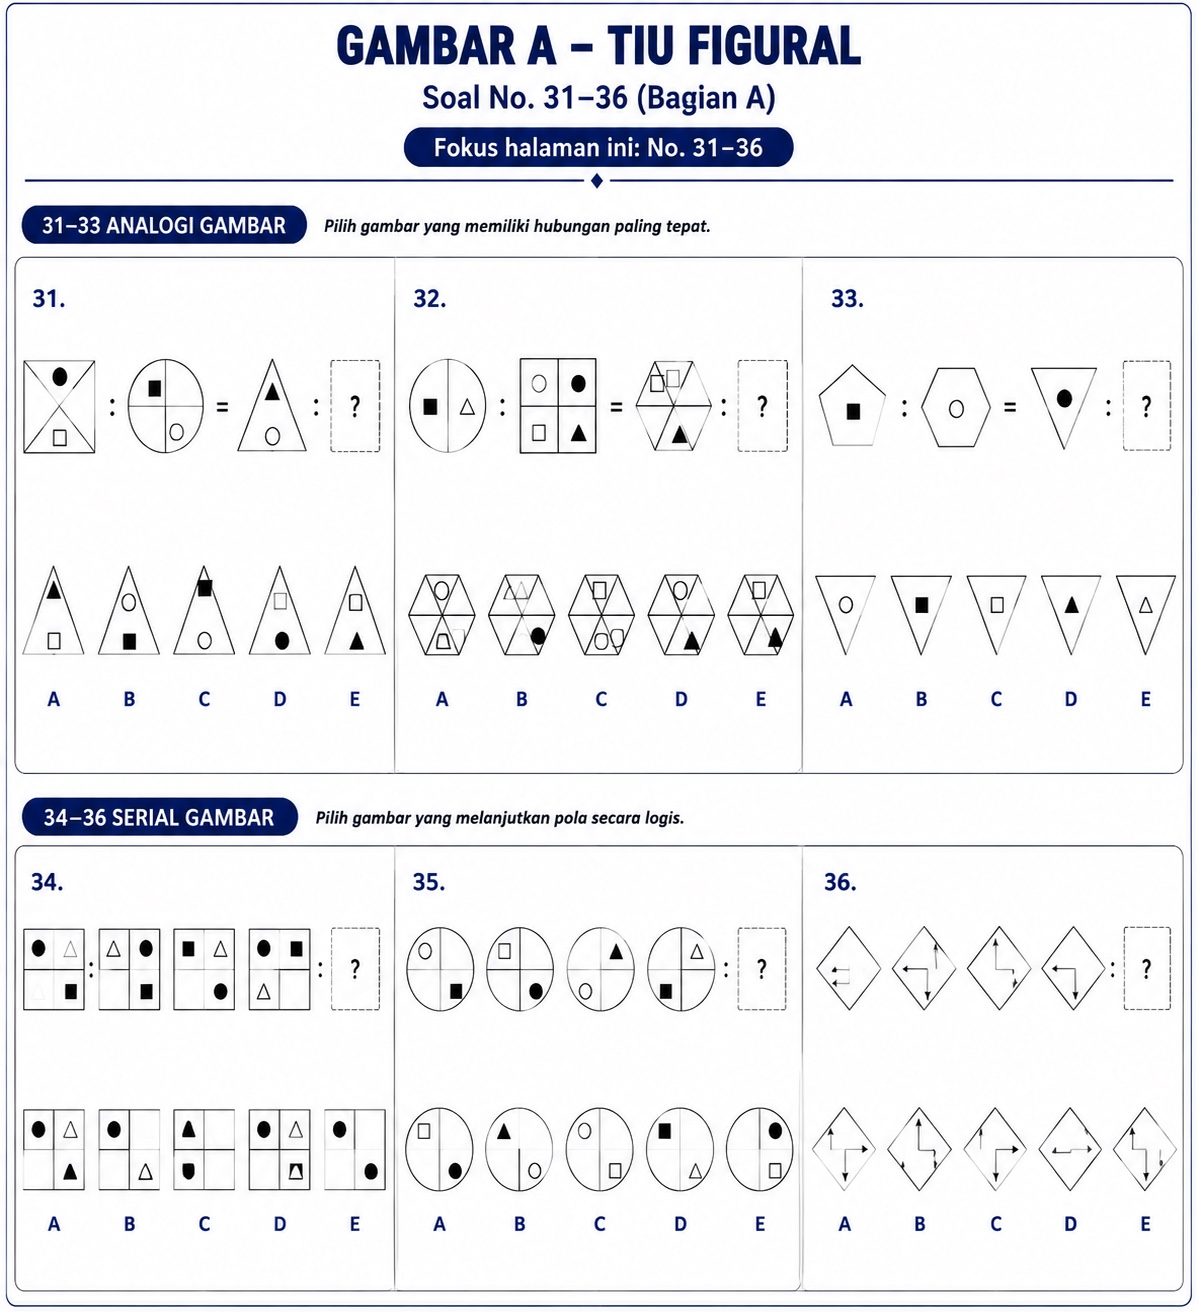
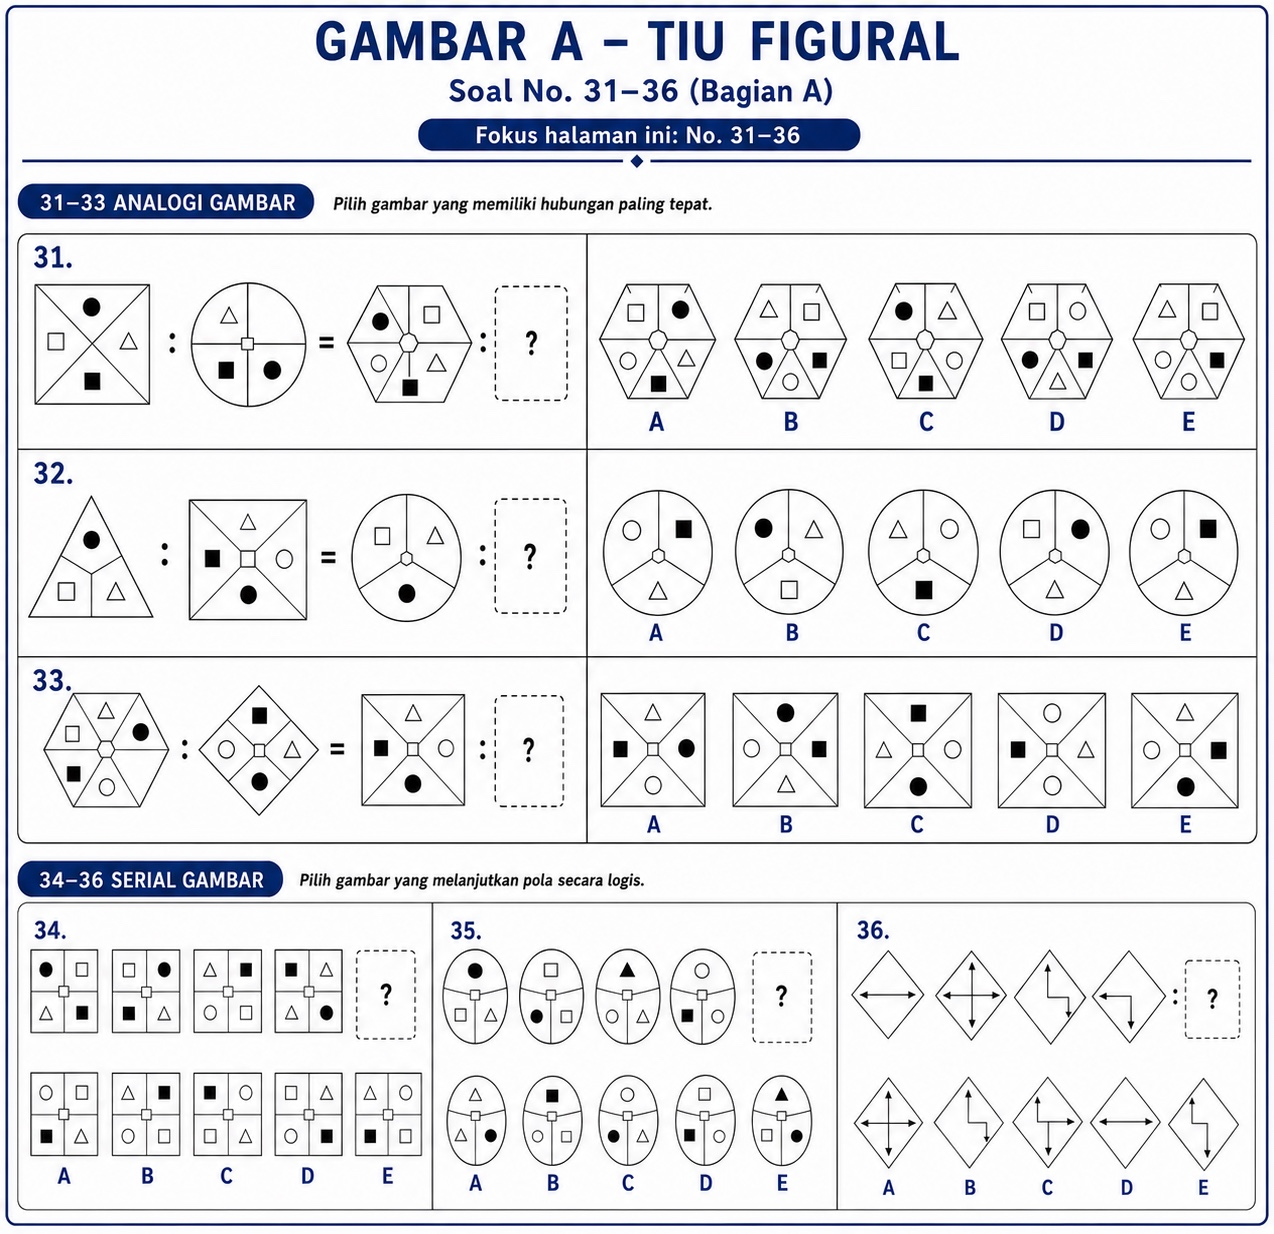
Add files via upload

Changed region(s): [[0.0, 0.0, 1.0, 1.0], [0.8023, 0.7699, 0.8332, 0.8006]]

diff --git a/script.js b/script.js
@@ -1,6 +1,6 @@
 (()=>{'use strict';
 const Q=window.AOUT_QUESTIONS;if(!Array.isArray(Q)||Q.length!==110)throw new Error('Database soal tidak lengkap.');
[2 lines of base64/hex data omitted]
 const $=id=>document.getElementById(id),views={access:$('accessView'),instruction:$('instructionView'),exam:$('examView'),result:$('resultView')};
 let state=loadState(),filter='all',tick=null,toastTimer=null;
 function blankState(){return{answers:{},marked:{},current:1,started:false,finished:false,endAt:null,startedAt:null,finishedAt:null,scores:null,downloadUnlocked:false,participant:{name:'',age:'',origin:'',occupation:''}}}
@@ -75,7 +75,91 @@ function loadImage(src){return new Promise((res,rej)=>{const im=new Image();im.o
 function wrap(ctx,text,maxWidth){const words=String(text).split(/\s+/),lines=[];let line='';for(const w of words){const test=line?line+' '+w:w;if(ctx.measureText(test).width>maxWidth&&line){lines.push(line);line=w}else line=test}if(line)lines.push(line);return lines}
 function safeFilename(name){return String(name||'Peserta').normalize('NFD').replace(/[\u0300-\u036f]/g,'').replace(/[^a-zA-Z0-9_-]+/g,'_').replace(/^_+|_+$/g,'').slice(0,50)||'Peserta'}
 async function canvasesToPdf(canvases,filename){const jpgs=[];for(const c of canvases){const blob=await new Promise(r=>c.toBlob(r,'image/jpeg',.88));jpgs.push(new Uint8Array(await blob.arrayBuffer()))}const pdf=jpegPagesToPdf(jpgs,canvases[0].width,canvases[0].height),blob=new Blob([pdf],{type:'application/pdf'}),a=document.createElement('a');a.href=URL.createObjectURL(blob);a.download=filename;a.click();setTimeout(()=>URL.revokeObjectURL(a.href),3000)}
-async function buildAnswerPdf(){const btn=$('downloadAnswerButton'),old=btn.textContent;btn.disabled=true;btn.textContent='Menyiapkan PDF…';try{const owie=await loadImage('assets/owie.png'),imgA=await loadImage('assets/gambar-a.jpeg'),imgB=await loadImage('assets/gambar-b.jpeg'),W=794,H=1123,M=54;let canvases=[],canvas,ctx,y;function newPage(title='JAWABAN SIMULASI SKD CPNS 2026'){canvas=document.createElement('canvas');canvas.width=W;canvas.height=H;ctx=canvas.getContext('2d');ctx.fillStyle='#f4f8fb';ctx.fillRect(0,0,W,H);ctx.fillStyle='#0c2f5c';ctx.fillRect(0,0,W,88);ctx.fillStyle='#fff';ctx.font='700 20px Arial';ctx.fillText('AOUT EDU',M,36);ctx.font='700 16px Arial';ctx.fillText(title,M,63);ctx.drawImage(owie,W-108,10,62,62);y=118;canvases.push(canvas)}function ensure(h){if(y+h>H-54)newPage()}function text(t,x,w,font='14px Arial',color='#17233a',lh=20){ctx.font=font;ctx.fillStyle=color;const ls=wrap(ctx,t,w);ls.forEach(line=>{ctx.fillText(line,x,y);y+=lh})}function qText(q){ctx.font='14px Arial';const promptLines=wrap(ctx,q.prompt,W-M*2-28).length;ctx.font='13px Arial';const optionLines=q.options.reduce((n,o,i)=>n+wrap(ctx,`${LETTERS[i]}. ${o}`,W-M*2-18).length,0);ensure(Math.min(promptLines*20+optionLines*18+86,H-180));ctx.fillStyle='#0c2f5c';ctx.font='700 15px Arial';ctx.fillText(`${q.id}.`,M,y);const sy=y;text(q.prompt,M+28,W-M*2-28);y=Math.max(y,sy+20)+4;q.options.forEach((o,i)=>{ctx.fillStyle='#17233a';ctx.font='13px Arial';for(const line of wrap(ctx,`${LETTERS[i]}. ${o}`,W-M*2-18)){if(y>H-90)newPage();ctx.fillText(line,M+18,y);y+=18}});ctx.fillStyle='#1fa8a5';ctx.font='700 13px Arial';if(y>H-90)newPage();ctx.fillText(`Jawaban peserta: ${state.answers[q.id]||'Belum dijawab'}`,M+18,y+5);y+=34;ctx.strokeStyle='#d9e4ec';ctx.beginPath();ctx.moveTo(M,y);ctx.lineTo(W-M,y);ctx.stroke();y+=18}newPage('RINGKASAN SALINAN JAWABAN');ctx.fillStyle='#0c2f5c';ctx.font='700 32px Arial';ctx.fillText('Salinan Jawaban Saya',M,y+20);y+=56;ctx.font='14px Arial';ctx.fillStyle='#17233a';ctx.fillText(`Nama: ${state.participant?.name||'-'}`,M,y);y+=24;ctx.fillText(`Tanggal: ${new Date(state.finishedAt||Date.now()).toLocaleString('id-ID')}`,M,y);y+=36;ctx.fillStyle='#68748a';ctx.fillText('Dokumen memuat soal lengkap dan jawaban yang dipilih peserta.',M,y);y+=38;for(const q of Q.filter(x=>x.id<=30))qText(q);newPage('GAMBAR A — SOAL 31–36');let ar=imgA.width/imgA.height,aw=W-M*2,ah=aw/ar;if(ah>780){ah=780;aw=ah*ar}ctx.drawImage(imgA,(W-aw)/2,y,aw,ah);y+=ah+24;ctx.font='700 15px Arial';ctx.fillStyle='#0c2f5c';for(let id=31;id<=36;id++){ctx.fillText(`${id}. Jawaban peserta: ${state.answers[id]||'Belum dijawab'}`,M,y);y+=25}newPage('GAMBAR B — SOAL 37–40');let br=imgB.width/imgB.height,bw=W-M*2,bh=bw/br;if(bh>790){bh=790;bw=bh*br}ctx.drawImage(imgB,(W-bw)/2,y,bw,bh);y+=bh+24;ctx.font='700 15px Arial';ctx.fillStyle='#0c2f5c';for(let id=37;id<=40;id++){ctx.fillText(`${id}. Jawaban peserta: ${state.answers[id]||'Belum dijawab'}`,M,y);y+=25}for(const q of Q.filter(x=>x.id>=41))qText(q);await canvasesToPdf(canvases,`Salinan_Jawaban_${safeFilename(state.participant?.name)}.pdf`);toast('PDF salinan jawaban berhasil dibuat.')}catch(e){console.error(e);toast('PDF gagal dibuat. Gunakan browser terbaru.')}finally{btn.disabled=false;btn.textContent=old}}
+
+function openContribution(){
+ const modal=$('contributionModal');
+ $('contributionSuccess').classList.add('hidden');
+ $('contributionError').textContent='';
+ $('contributionIntroActions').classList.remove('hidden');
+ $('contributionForm').classList.add('hidden');
+ $('contributionForm').reset();
+ $('contributorName').value=state.participant?.name||'';
+ $('transferDate').value=new Date().toISOString().slice(0,10);
+ modal.classList.remove('hidden');
+ document.body.style.overflow='hidden';
+}
+function closeContribution(){
+ $('contributionModal').classList.add('hidden');
+ document.body.style.overflow='';
+}
+async function copyBankAccount(){
+ const number='568801018509539';
+ try{
+  if(navigator.clipboard&&window.isSecureContext)await navigator.clipboard.writeText(number);
+  else{const ta=document.createElement('textarea');ta.value=number;ta.style.position='fixed';ta.style.opacity='0';document.body.appendChild(ta);ta.select();document.execCommand('copy');ta.remove()}
+  toast('Nomor rekening berhasil disalin.');
+ }catch(e){console.error(e);toast(`Salin manual: ${number}`)}
+}
+function showContributionForm(){
+ $('contributionIntroActions').classList.add('hidden');
+ $('contributionForm').classList.remove('hidden');
+ $('contributorName').focus();
+}
+function validProof(file){
+ if(!file)return false;
+ const ext=(file.name.split('.').pop()||'').toLowerCase();
+ return ['jpg','jpeg','png','pdf'].includes(ext);
+}
+function sendContribution(e){
+ e.preventDefault();
+ const name=$('contributorName').value.trim(),amount=$('contributionAmount').value.trim(),bank=$('senderBank').value.trim(),date=$('transferDate').value,wa=$('senderWhatsapp').value.trim(),note=$('contributionNote').value.trim(),file=$('transferProof').files[0];
+ if(!name||!amount||Number(amount)<=0||!bank||!date||!wa||!validProof(file)){
+  $('contributionError').textContent='Lengkapi data transfer dan pilih bukti berformat JPG, JPEG, PNG, atau PDF.';
+  return;
+ }
+ $('contributionError').textContent='';
+ const nominal=new Intl.NumberFormat('id-ID').format(Number(amount));
+ const msg=`Halo Kak Affi, saya sudah memberikan kontribusi seikhlasnya.\n\nNama: ${name}\nNominal Kontribusi: Rp${nominal}\nBank Pengirim: ${bank}\nTanggal Transfer: ${date}\nNomor WhatsApp: ${wa}\nRekening Tujuan: BRI [phone redacted]\nAtas Nama: Rafly Agustin\n\nCatatan:\n${note||'-'}\n\nBukti transfer: ${file.name} (akan saya lampirkan pada chat WhatsApp)\n\nMohon dilakukan pengecekan. Terima kasih.`;
+ $('contributionSuccess').classList.remove('hidden');
+ window.open(`https://wa.me/6285173479651?text=${encodeURIComponent(msg)}`,'_blank','noopener');
+}
+async function buildAnswerPdf(){
+ const btn=$('downloadAnswerButton'),old=btn.textContent;btn.disabled=true;btn.textContent='Menyiapkan PDF…';
+ try{
+  const owie=await loadImage('assets/owie.png'),imgA=await loadImage('assets/gambar-a.jpeg'),imgB=await loadImage('assets/gambar-b.jpeg'),W=794,H=1123,M=54;
+  let canvases=[],canvas,ctx,y;
+  function newPage(title='SALINAN SOAL, JAWABAN & KUNCI'){
+   canvas=document.createElement('canvas');canvas.width=W;canvas.height=H;ctx=canvas.getContext('2d');
+   ctx.fillStyle='#f4f8fb';ctx.fillRect(0,0,W,H);ctx.fillStyle='#0c2f5c';ctx.fillRect(0,0,W,88);
+   ctx.fillStyle='#fff';ctx.font='700 20px Arial';ctx.fillText('AOUT EDU',M,36);ctx.font='700 16px Arial';ctx.fillText(title,M,63);ctx.drawImage(owie,W-108,10,62,62);y=118;canvases.push(canvas)
+  }
+  function ensure(h){if(y+h>H-54)newPage()}
+  function text(t,x,w,font='14px Arial',color='#17233a',lh=20){ctx.font=font;ctx.fillStyle=color;const ls=wrap(ctx,t,w);ls.forEach(line=>{ctx.fillText(line,x,y);y+=lh})}
+  function resultMeta(q){
+   const chosen=state.answers[q.id]||'Belum dijawab';
+   if(q.id<=65){const status=chosen==='Belum dijawab'?'Tidak dijawab':chosen===q.answer?'Benar':'Salah';return{line:`Jawaban peserta: ${chosen}  |  Kunci: ${q.answer}  |  Status: ${status}`,color:status==='Benar'?'#168960':status==='Salah'?'#c84f4f':'#7e8898'}}
+   const score=chosen==='Belum dijawab'?0:(q.scores?.[chosen]||0),best=LETTERS.find(L=>q.scores?.[L]===5)||'-';
+   return{line:`Jawaban peserta: ${chosen}  |  Skor: ${score}  |  Opsi skor 5: ${best}`,color:'#a86b12'}
+  }
+  function qText(q){
+   ctx.font='14px Arial';const promptLines=wrap(ctx,q.prompt,W-M*2-28).length;ctx.font='13px Arial';const optionLines=q.options.reduce((n,o,i)=>n+wrap(ctx,`${LETTERS[i]}. ${o}`,W-M*2-18).length,0);
+   ensure(Math.min(promptLines*20+optionLines*18+108,H-180));ctx.fillStyle='#0c2f5c';ctx.font='700 15px Arial';ctx.fillText(`${q.id}.`,M,y);const sy=y;text(q.prompt,M+28,W-M*2-28);y=Math.max(y,sy+20)+4;
+   q.options.forEach((o,i)=>{ctx.fillStyle='#17233a';ctx.font='13px Arial';for(const line of wrap(ctx,`${LETTERS[i]}. ${o}`,W-M*2-18)){if(y>H-104)newPage();ctx.fillText(line,M+18,y);y+=18}});
+   const meta=resultMeta(q);if(y>H-88)newPage();ctx.fillStyle=meta.color;ctx.font='700 13px Arial';for(const line of wrap(ctx,meta.line,W-M*2-18)){ctx.fillText(line,M+18,y+5);y+=18}y+=18;
+   ctx.strokeStyle='#d9e4ec';ctx.beginPath();ctx.moveTo(M,y);ctx.lineTo(W-M,y);ctx.stroke();y+=18
+  }
+  function figuralPage(title,img,ids){
+   newPage(title);const ratio=img.width/img.height;let iw=W-M*2,ih=iw/ratio;const maxH=ids.length>4?650:720;if(ih>maxH){ih=maxH;iw=ih*ratio}ctx.drawImage(img,(W-iw)/2,y,iw,ih);y+=ih+22;
+   ctx.font='700 13px Arial';for(const id of ids){const q=qById(id),meta=resultMeta(q);if(y>H-78)newPage(`${title} — LANJUTAN`);ctx.fillStyle=meta.color;for(const line of wrap(ctx,`${id}. ${meta.line}`,W-M*2)){ctx.fillText(line,M,y);y+=18}y+=9}
+  }
+  newPage('RINGKASAN SALINAN SOAL, JAWABAN & KUNCI');ctx.fillStyle='#0c2f5c';ctx.font='700 31px Arial';ctx.fillText('Salinan Hasil Pengerjaan',M,y+20);y+=56;ctx.font='14px Arial';ctx.fillStyle='#17233a';ctx.fillText(`Nama: ${state.participant?.name||'-'}`,M,y);y+=24;ctx.fillText(`Tanggal: ${new Date(state.finishedAt||Date.now()).toLocaleString('id-ID')}`,M,y);y+=34;ctx.fillStyle='#68748a';text('Dokumen memuat soal lengkap, jawaban peserta, kunci TWK/TIU, status benar-salah, serta skor dan opsi terbaik TKP.',M,W-M*2,'13px Arial','#68748a',19);y+=18;
+  for(const q of Q.filter(x=>x.id<=30))qText(q);
+  figuralPage('GAMBAR A — SOAL 31–36',imgA,[31,32,33,34,35,36]);
+  figuralPage('GAMBAR B — SOAL 37–40',imgB,[37,38,39,40]);
+  for(const q of Q.filter(x=>x.id>=41))qText(q);
+  await canvasesToPdf(canvases,`Salinan_Soal_Jawaban_Kunci_${safeFilename(state.participant?.name)}.pdf`);toast('PDF salinan soal, jawaban, dan kunci berhasil dibuat.');
+ }catch(e){console.error(e);toast('PDF gagal dibuat. Gunakan browser terbaru.')}finally{btn.disabled=false;btn.textContent=old}
+}
 async function buildReportPdf(){
  const btn=$('downloadReportButton'),old=btn.textContent;btn.disabled=true;btn.textContent='Menyiapkan report detail...';
  try{
@@ -126,8 +210,8 @@ async function buildReportPdf(){
 }
 function jpegPagesToPdf(images,pw,ph){const parts=[],offsets=[0];let pos=0;const add=v=>{const b=typeof v==='string'?new TextEncoder().encode(v):v;parts.push(b);pos+=b.length};add('%PDF-1.4\n%âãÏÓ\n');const n=images.length,objCount=2+n*3;const obj=(id,body)=>{offsets[id]=pos;add(`${id} 0 obj\n`);Array.isArray(body)?body.forEach(add):add(body);add('\nendobj\n')};obj(1,'<< /Type /Catalog /Pages 2 0 R >>');obj(2,`<< /Type /Pages /Kids [${images.map((_,i)=>`${3+i*3} 0 R`).join(' ')}] /Count ${n} >>`);images.forEach((img,i)=>{const pageId=3+i*3,imgId=pageId+1,contentId=pageId+2,name=`Im${i+1}`;obj(pageId,`<< /Type /Page /Parent 2 0 R /MediaBox [0 0 595.28 841.89] /Resources << /XObject << /${name} ${imgId} 0 R >> >> /Contents ${contentId} 0 R >>`);obj(imgId,[`<< /Type /XObject /Subtype /Image /Width ${pw} /Height ${ph} /ColorSpace /DeviceRGB /BitsPerComponent 8 /Filter /DCTDecode /Length ${img.length} >>\nstream\n`,img,'\nendstream']);const stream=`q\n595.28 0 0 841.89 0 0 cm\n/${name} Do\nQ`;obj(contentId,`<< /Length ${stream.length} >>\nstream\n${stream}\nendstream`)});const xref=pos;add(`xref\n0 ${objCount+1}\n0000000000 65535 f \n`);for(let i=1;i<=objCount;i++)add(`${String(offsets[i]||0).padStart(10,'0')} 00000 n \n`);add(`trailer\n<< /Size ${objCount+1} /Root 1 0 R >>\nstartxref\n${xref}\n%%EOF`);const len=parts.reduce((a,b)=>a+b.length,0),out=new Uint8Array(len);let o=0;for(const p of parts){out.set(p,o);o+=p.length}return out}
 function reset(){if(!confirm('Seluruh jawaban, data diri, skor, akses unduhan, dan laporan tersimpan pada perangkat ini akan dihapus. Apakah Anda yakin ingin mengulangi tes?'))return;localStorage.removeItem(STORE);sessionStorage.removeItem('aoutAccess');state=blankState();location.reload()}
-$('accessButton').onclick=authenticate;$('accessCode').addEventListener('keydown',e=>{if(e.key==='Enter')authenticate()});$('toggleCode').onclick=()=>{$('accessCode').type=$('accessCode').type==='password'?'text':'password'};['participantName','participantAge','participantOrigin','participantOccupation'].forEach(id=>$(id).addEventListener('input',()=>validateReady(false)));$('consent').onchange=()=>validateReady(false);$('startButton').onclick=startExam;$('resumeButton').onclick=resumeExam;$('prevButton').onclick=prev;$('nextButton').onclick=next;$('markButton').onclick=toggleMark;$('finishButton').onclick=openFinish;$('confirmFinish').onclick=()=>finishExam(false);document.querySelectorAll('[data-close-modal]').forEach(b=>b.onclick=closeFinish);$('drawerButton').onclick=openDrawer;$('drawerClose').onclick=closeDrawer;$('drawerBackdrop').onclick=closeDrawer;$('stripLeft').onclick=()=>$('numberStrip').scrollBy({left:-320,behavior:'smooth'});$('stripRight').onclick=()=>$('numberStrip').scrollBy({left:320,behavior:'smooth'});$('imageModalClose').onclick=()=>$('imageModal').classList.add('hidden');$('imageModal').addEventListener('click',e=>{if(e.target===$('imageModal'))$('imageModal').classList.add('hidden')});$('requestCodeButton').onclick=requestDownloadCode;$('discussionButton').onclick=requestDiscussion;$('unlockDownloadsButton').onclick=unlockDownloads;$('downloadCode').addEventListener('keydown',e=>{if(e.key==='Enter')unlockDownloads()});$('downloadAnswerButton').onclick=buildAnswerPdf;$('downloadReportButton').onclick=buildReportPdf;$('resetButton').onclick=reset;
+$('accessButton').onclick=authenticate;$('accessCode').addEventListener('keydown',e=>{if(e.key==='Enter')authenticate()});$('toggleCode').onclick=()=>{$('accessCode').type=$('accessCode').type==='password'?'text':'password'};['participantName','participantAge','participantOrigin','participantOccupation'].forEach(id=>$(id).addEventListener('input',()=>validateReady(false)));$('consent').onchange=()=>validateReady(false);$('startButton').onclick=startExam;$('resumeButton').onclick=resumeExam;$('prevButton').onclick=prev;$('nextButton').onclick=next;$('markButton').onclick=toggleMark;$('finishButton').onclick=openFinish;$('confirmFinish').onclick=()=>finishExam(false);document.querySelectorAll('[data-close-modal]').forEach(b=>b.onclick=closeFinish);$('drawerButton').onclick=openDrawer;$('drawerClose').onclick=closeDrawer;$('drawerBackdrop').onclick=closeDrawer;$('stripLeft').onclick=()=>$('numberStrip').scrollBy({left:-320,behavior:'smooth'});$('stripRight').onclick=()=>$('numberStrip').scrollBy({left:320,behavior:'smooth'});$('imageModalClose').onclick=()=>$('imageModal').classList.add('hidden');$('imageModal').addEventListener('click',e=>{if(e.target===$('imageModal'))$('imageModal').classList.add('hidden')});$('requestCodeButton').onclick=requestDownloadCode;$('discussionButton').onclick=requestDiscussion;$('unlockDownloadsButton').onclick=unlockDownloads;$('downloadCode').addEventListener('keydown',e=>{if(e.key==='Enter')unlockDownloads()});$('downloadAnswerButton').onclick=buildAnswerPdf;$('downloadReportButton').onclick=buildReportPdf;$('openContributionButton').onclick=openContribution;$('contributionModalClose').onclick=closeContribution;$('copyBankButton').onclick=copyBankAccount;$('showTransferFormButton').onclick=showContributionForm;$('contributionForm').addEventListener('submit',sendContribution);$('contributionModal').addEventListener('click',e=>{if(e.target===$('contributionModal'))closeContribution()});$('resetButton').onclick=reset;
 document.addEventListener('click',e=>{const go=e.target.closest('[data-go]');if(go)setCurrent(go.dataset.go);const ans=e.target.closest('[data-answer]');if(ans){const[id,L]=ans.dataset.answer.split(':');answer(Number(id),L)}const z=e.target.closest('[data-zoom]');if(z)openZoom(z.dataset.zoom);const ft=e.target.closest('[data-filter]');if(ft){filter=ft.dataset.filter;document.querySelectorAll('[data-filter]').forEach(b=>b.classList.toggle('active',b===ft));renderGrid()}});
-window.addEventListener('beforeunload',e=>{if(state.started&&!state.finished){e.preventDefault();e.returnValue=''}});
+document.addEventListener('keydown',e=>{if(e.key==='Escape'&&!$('contributionModal').classList.contains('hidden'))closeContribution()});window.addEventListener('beforeunload',e=>{if(state.started&&!state.finished){e.preventDefault();e.returnValue=''}});
 if(sessionStorage.getItem('aoutAccess')==='1'){state.finished?showResults():prepareInstruction()}else showView('access');
 })();

diff --git a/style.css b/style.css
@@ -60,3 +60,29 @@ button,input{font:inherit}
 .download-locked-note{font-size:.78rem;color:#68748a}
 @media(max-width:860px){.premium-access-card{grid-template-columns:1fr}.discussion-card{align-items:flex-start;flex-direction:column}.discussion-card button{width:100%}}
 @media(max-width:560px){.premium-access-card{padding:18px;border-radius:20px}.premium-access-action{padding:16px}.unlock-input-row{grid-template-columns:1fr}.unlock-input-row button{width:100%}.premium-feature-list{display:grid}.premium-feature-list span{border-radius:11px}.discussion-card{padding:19px}.result-score-grid{grid-template-columns:repeat(2,minmax(0,1fr))}}
+
+/* ===== Dukungan sukarela dan revisi salinan jawaban ===== */
+.support-prompt{display:flex;align-items:center;justify-content:space-between;gap:18px;margin:-2px 0 18px;padding:14px 16px;border:1px solid #dce7ec;border-radius:16px;background:rgba(255,255,255,.82)}
+.support-prompt p{margin:0;color:var(--muted);font-size:.76rem;line-height:1.55}
+.support-trigger{min-height:40px;padding:9px 14px;font-size:.74rem;white-space:nowrap;box-shadow:none}
+.contribution-modal-card{width:min(680px,100%);max-height:92vh;overflow:auto;padding:28px}
+.contribution-modal-card h2{margin:7px 0 6px}
+.contribution-copy{margin:0 0 18px;color:var(--muted);font-size:.82rem;line-height:1.6}
+.bank-detail-card{display:grid;grid-template-columns:.7fr 1.25fr 1fr;gap:10px;padding:16px;border:1px solid #d9e7e9;border-radius:18px;background:linear-gradient(135deg,#f0fbfa,#fff9ea)}
+.bank-detail-card>div{min-width:0;padding:10px 11px;border-radius:12px;background:rgba(255,255,255,.78)}
+.bank-detail-card span{display:block;margin-bottom:5px;color:var(--muted);font-size:.62rem;font-weight:800;letter-spacing:.06em;text-transform:uppercase}
+.bank-detail-card strong{display:block;color:var(--navy);font-size:.9rem;overflow-wrap:anywhere}
+.bank-detail-card button{grid-column:1/-1;margin-top:2px}
+.contribution-intro-actions{margin-top:14px}
+.contribution-form{margin-top:18px;padding-top:18px;border-top:1px solid var(--line)}
+.contribution-grid{display:grid;grid-template-columns:1fr 1fr;gap:13px}
+.contribution-grid label{display:grid;gap:7px;min-width:0}
+.contribution-grid label>span{font-size:.7rem;font-weight:800;color:var(--navy)}
+.contribution-grid input,.contribution-grid textarea{width:100%;min-width:0;border:1.5px solid var(--line);border-radius:12px;padding:12px 13px;background:#fbfdfe;color:var(--ink);outline:none;resize:vertical}
+.contribution-grid input:focus,.contribution-grid textarea:focus{border-color:var(--teal);box-shadow:0 0 0 4px rgba(31,168,165,.1)}
+.contribution-grid input[type=file]{padding:9px;background:#fff}
+.contribution-grid label>small{color:var(--muted);font-size:.65rem;line-height:1.45}
+.contribution-wide{grid-column:1/-1}
+.security-note{margin:5px 0 14px;padding:11px 13px;border:1px solid #f0d59b;border-radius:12px;background:#fff9e9;color:#785b19;font-size:.68rem;line-height:1.5}
+.contribution-success{margin-top:16px;padding:14px 15px;border:1px solid #bce7d4;border-radius:14px;background:#eaf8f1;color:#157557;font-size:.78rem;line-height:1.55}
+@media(max-width:680px){.support-prompt{align-items:flex-start;flex-direction:column}.support-trigger{width:100%}.contribution-modal-card{padding:22px 18px}.bank-detail-card,.contribution-grid{grid-template-columns:1fr}.contribution-wide{grid-column:auto}}